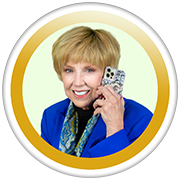
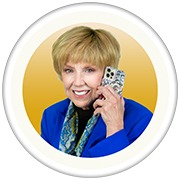
Show Dr. Jan's portrait with the Midtown lockup on every page.
The header and footer use Midtown Las Vegas Condos with the line By Dr. Jan Duffy, and the same portrait appears in author, profile, hero, and favicon slots.

diff --git a/app/layout.tsx b/app/layout.tsx
@@ -15,6 +15,7 @@ import { WidgetTracker } from './components/widget-tracker'
 import { CalendlyBadge } from './components/calendly-badge'
 import { CalendlyScript } from './components/calendly-script'
 import { REAL_ESTATE_SITE } from '@/lib/site-persona'
+import { AgentByline } from './components/agent-byline'
 import { getGoogleSiteVerification, SITE_URL } from '@/lib/search-console'
 
 const inter = Inter({ 
@@ -88,9 +89,13 @@ export const metadata: Metadata = {
     : undefined,
   manifest: '/manifest.json',
   icons: {
-    icon: '/favicon.ico',
+    icon: [
+      { url: '/favicon.ico', sizes: '48x48', type: 'image/x-icon' },
+      { url: '/icons/icon-32.png', sizes: '32x32', type: 'image/png' },
+      { url: '/icons/icon-192.png', sizes: '192x192', type: 'image/png' },
+    ],
     apple: [
-      { url: '/favicon.ico', sizes: '180x180', type: 'image/x-icon' },
+      { url: '/icons/apple-touch-icon.png', sizes: '180x180', type: 'image/png' },
     ],
   },
   category: 'real estate',
@@ -122,8 +127,7 @@ export default function RootLayout({
           href="/images/midtown/blvd-aerial-rendering.jpg"
           fetchPriority="high"
         />
-        {/* Apple touch icon - using favicon.ico as fallback until dedicated PNG is created */}
-        <link rel="apple-touch-icon" href="/favicon.ico" sizes="180x180" />
+        <link rel="apple-touch-icon" href="/icons/apple-touch-icon.png" sizes="180x180" />
         {/* theme-color is supported by Chrome, Edge, Safari, and mobile browsers (not Firefox/Opera) */}
         <meta name="theme-color" content="#0f172a" />
         {/* DNS Prefetch for non-critical resources */}
@@ -180,6 +184,11 @@ export default function RootLayout({
         <FAQSchema />
         <Header />
         <main className="pt-16">{children}</main>
+        <div className="border-t border-slate-200 bg-slate-50">
+          <div className="mx-auto max-w-7xl px-4 py-4 sm:px-6 lg:px-8">
+            <AgentByline compact />
+          </div>
+        </div>
         <Footer />
         <StickyCTABar />
         <CalendlyScript />

diff --git a/app/components/site-logo.tsx b/app/components/site-logo.tsx
@@ -1,0 +1,46 @@
+import Image from 'next/image'
+import Link from 'next/link'
+import { AGENT_PHOTO_ALT, getAgentPhotoUrl } from '@/lib/agent-photo'
+import { REAL_ESTATE_SITE } from '@/lib/site-persona'
+
+type SiteLogoProps = {
+  variant?: 'header' | 'footer'
+}
+
+const SIZE = {
+  header: 40,
+  footer: 56,
+} as const
+
+/** Wordmark plus Dr. Jan's portrait. Shared by the header and footer on every page. */
+export function SiteLogo({ variant = 'header' }: SiteLogoProps) {
+  const onDark = variant === 'footer'
+  const px = SIZE[variant]
+
+  return (
+    <Link href="/" className="flex items-center gap-2.5 min-w-0">
+      <Image
+        src={getAgentPhotoUrl()}
+        alt={AGENT_PHOTO_ALT}
+        width={px}
+        height={px}
+        priority={variant === 'header'}
+        className="shrink-0 rounded-full"
+      />
+      <span className="flex min-w-0 flex-col leading-tight">
+        <span
+          className={`truncate font-bold tracking-tight ${
+            onDark ? 'text-sm text-white sm:text-base' : 'text-[13px] text-slate-900 sm:text-base'
+          }`}
+        >
+          {REAL_ESTATE_SITE.logoTitle}
+        </span>
+        <span
+          className={`truncate text-xs font-medium ${onDark ? 'text-amber-200' : 'text-amber-800'}`}
+        >
+          {REAL_ESTATE_SITE.logoLine}
+        </span>
+      </span>
+    </Link>
+  )
+}

diff --git a/app/page.tsx b/app/page.tsx
@@ -11,6 +11,7 @@ import { CalendlyLink } from './components/calendly-link'
 import { REAL_ESTATE_SITE, OFFICIAL_MIDTOWN_SITE } from '@/lib/site-persona'
 import { REDDIT_HOMEPAGE_QUESTIONS } from '@/lib/reddit-aeo-topics'
 import { SitePersonaBanner } from './components/site-persona-banner'
+import { AGENT_PHOTO_ALT, getAgentPhotoUrl } from '@/lib/agent-photo'
 
 export const metadata: Metadata = {
   title: {
@@ -54,8 +55,16 @@ export default function HomePage() {
         </div>
         <div className="absolute inset-0 bg-black/50" />
         <div className="relative z-10 text-center px-4 sm:px-6 max-w-4xl mx-auto">
+          <Image
+            src={getAgentPhotoUrl()}
+            alt={AGENT_PHOTO_ALT}
+            width={112}
+            height={112}
+            priority
+            className="mx-auto mb-6 h-24 w-24 rounded-full shadow-lg md:h-28 md:w-28"
+          />
           <p className="text-sm md:text-base font-semibold uppercase tracking-widest text-amber-200 mb-4">
-            {REAL_ESTATE_SITE.tagline}
+            {REAL_ESTATE_SITE.logoLine}
           </p>
           <h1 className="text-4xl md:text-6xl lg:text-7xl font-bold text-white mb-4 tracking-tight">
             {REAL_ESTATE_SITE.seo.primaryKeyword}

diff --git a/app/components/header.tsx b/app/components/header.tsx
@@ -3,7 +3,8 @@
 import { useState } from 'react'
 import Link from 'next/link'
 import { Menu, X } from 'lucide-react'
-import { REAL_ESTATE_SITE, OFFICIAL_MIDTOWN_SITE, NAV_LABELS } from '@/lib/site-persona'
+import { OFFICIAL_MIDTOWN_SITE, NAV_LABELS } from '@/lib/site-persona'
+import { SiteLogo } from './site-logo'
 
 export function Header() {
   const [mobileMenuOpen, setMobileMenuOpen] = useState(false)
@@ -58,11 +59,7 @@ export function Header() {
     <header className="fixed top-0 left-0 right-0 z-50 bg-white/95 backdrop-blur-sm border-b border-slate-200">
       <nav className="max-w-7xl mx-auto px-4 sm:px-6 lg:px-8">
         <div className="flex justify-between items-center h-16">
-          {/* Logo */}
-          <Link href="/" className="flex flex-col leading-tight">
-            <span className="text-base font-bold text-slate-900 tracking-tight">{REAL_ESTATE_SITE.name}</span>
-            <span className="text-xs font-medium text-amber-800">{REAL_ESTATE_SITE.tagline}</span>
-          </Link>
+          <SiteLogo />
 
           {/* Desktop Navigation */}
           <div className="hidden lg:flex items-center space-x-8">

diff --git a/app/components/reddit-aeo-guide-page.tsx b/app/components/reddit-aeo-guide-page.tsx
@@ -12,6 +12,7 @@ import {
   type RedditAeoGuide,
 } from '@/lib/reddit-aeo-topics'
 import { REAL_ESTATE_SITE } from '@/lib/site-persona'
+import { AgentByline } from '@/app/components/agent-byline'
 
 function GuideBlock({ block }: { block: GuideContentBlock }) {
   switch (block.type) {
@@ -170,6 +171,7 @@ export function RedditAeoGuidePage({ guide }: RedditAeoGuidePageProps) {
           <Breadcrumb items={breadcrumbItems} />
 
           <h1 className="text-5xl md:text-6xl font-bold text-slate-900 mb-6">{guide.h1}</h1>
+          <AgentByline />
 
           <div className="aeo-quick-answer bg-slate-50 border border-slate-200 rounded-xl p-6 mb-10 max-w-4xl">
             <p className="text-lg text-slate-700 leading-relaxed">

diff --git a/app/components/footer.tsx b/app/components/footer.tsx
@@ -1,6 +1,7 @@
 import Link from 'next/link'
 import { Newsletter } from './newsletter'
 import { OFFICIAL_MIDTOWN_SITE, REAL_ESTATE_SITE, NAV_LABELS } from '@/lib/site-persona'
+import { SiteLogo } from './site-logo'
 
 export function Footer() {
   const navigation = [
@@ -48,6 +49,9 @@ export function Footer() {
       {/* Main Footer Content */}
       <div className="py-12 px-4 sm:px-6 lg:px-8">
         <div className="max-w-7xl mx-auto">
+          <div className="mb-10">
+            <SiteLogo variant="footer" />
+          </div>
           <div className="grid md:grid-cols-2 lg:grid-cols-4 gap-8 mb-12">
             {/* Navigation Links */}
             <div className="lg:col-span-2">

diff --git a/app/components/structured-data.tsx b/app/components/structured-data.tsx
@@ -22,7 +22,7 @@ export function LocalBusinessSchema() {
     name: REAL_ESTATE_SITE.seo.schemaBrandName,
     description:
       'Discover luxury condos and charming homes in Downtown Las Vegas with Dr. Jan Duffy, a real estate expert with 30+ years of experience. Personalized service guaranteed!',
-    image: 'https://www.midtownlasvegascondos.com/images/logos/midtown-logo.svg',
+    image: getAgentPhotoAbsoluteUrl(),
     '@id': 'https://www.midtownlasvegascondos.com#business',
     url: 'https://www.midtownlasvegascondos.com',
     telephone: '+17025001980',

diff --git a/app/components/article-schema.tsx b/app/components/article-schema.tsx
@@ -1,6 +1,7 @@
 // Article Schema for Blog Posts
 // 2026 SEO: Article schema with author bylines enhances E-E-A-T
 
+import { getAgentPhotoAbsoluteUrl } from '@/lib/agent-photo'
 import { REAL_ESTATE_SITE } from '@/lib/site-persona'
 
 interface ArticleSchemaProps {
@@ -30,7 +31,7 @@ export function ArticleSchema({
   author,
   publisher = {
     name: REAL_ESTATE_SITE.name,
-    logo: `${REAL_ESTATE_SITE.url}/images/logos/midtown-logo.svg`,
+    logo: getAgentPhotoAbsoluteUrl(),
   },
 }: ArticleSchemaProps) {
   const schema = {

diff --git a/lib/site-persona.ts b/lib/site-persona.ts
@@ -32,6 +32,9 @@ export function formatPostalAddress(
 export const REAL_ESTATE_SITE = {
   name: 'Homes by Dr. Jan Duffy',
   shortName: 'Dr. Jan Duffy Real Estate',
+  /** Header and footer lockup — place name, then the agent line */
+  logoTitle: 'Midtown Las Vegas Condos',
+  logoLine: 'By Dr. Jan Duffy',
   /** Agent-site tagline — NOT "Meet me in Midtown" */
   tagline: 'Your Dream · Your Life · Your Home',
   subtagline: 'Your Midtown Arts District REALTOR®',

diff --git a/lib/agent-photo.ts b/lib/agent-photo.ts
@@ -1,7 +1,5 @@
 /**
- * Dr. Jan Duffy profile photo — sourced from Cloudflare-hosted portfolio asset
- * (suncityvegas.com/images/agent/dr-jan-duffy.jpg).
- *
+ * Dr. Jan Duffy portrait used in the header, footer, bylines, and profile sections.
  * Override with NEXT_PUBLIC_AGENT_PHOTO_URL for Cloudflare Images (imagedelivery.net).
  */
 

diff --git a/app/components/agent-profile-photo.tsx b/app/components/agent-profile-photo.tsx
@@ -35,7 +35,7 @@ export function AgentProfilePhoto({
         src={src}
         alt={AGENT_PHOTO_ALT}
         fill
-        className="object-cover object-top"
+        className="object-cover object-center"
         quality={85}
         priority={priority}
         sizes={`${px}px`}
